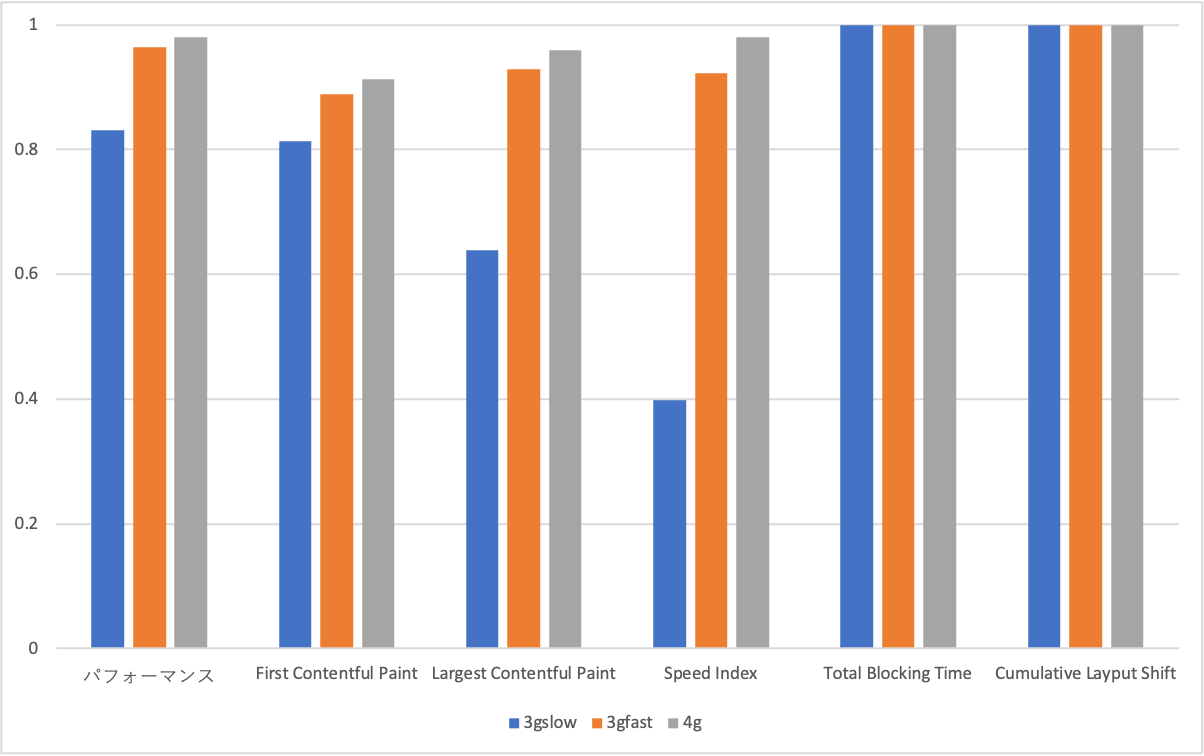
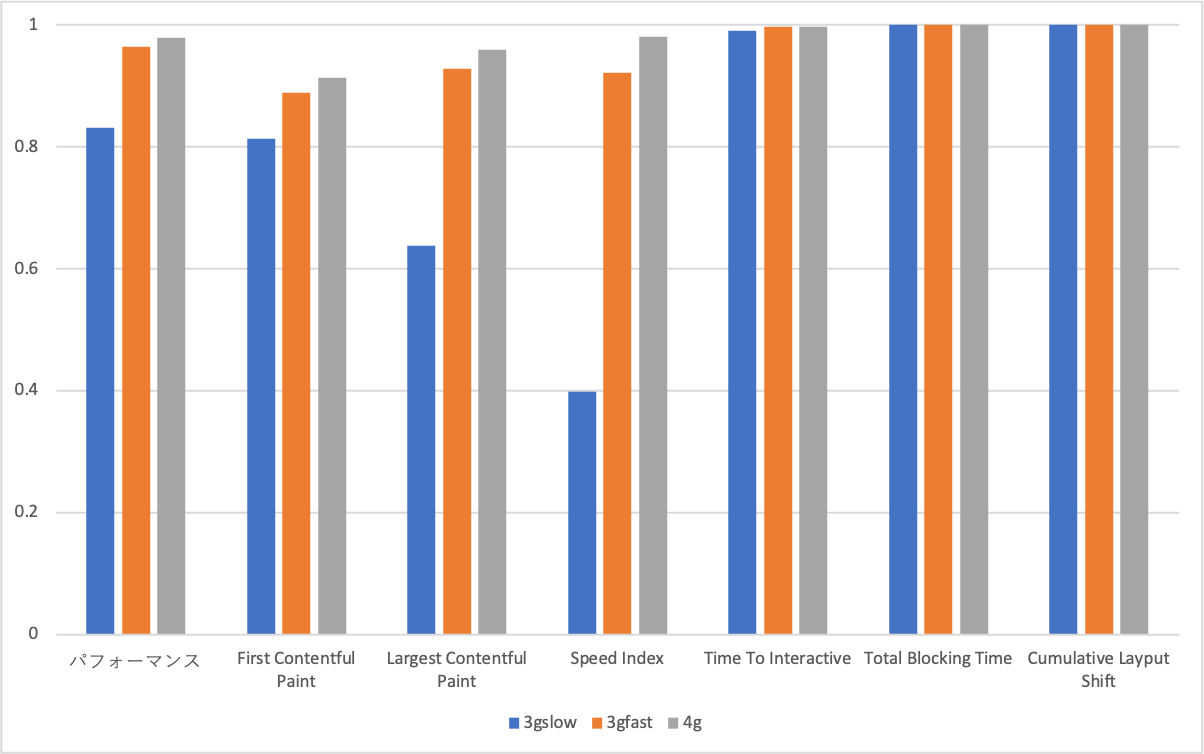
TTIを表に追加する

diff --git a/paper/documents/conclusion.tex b/paper/documents/conclusion.tex
@@ -8,9 +8,9 @@
 
 アプリの進化の歴史を踏まえると、アプリのインタラクティブ性は今後ますます高まると考えられる。前述したように、現在配信されている観光案内アプリの多くは受動的であり、アプリからユーザーへの積極的な情報発信が少ない。しかし、今後アプリのインタラクティブ化が進めば、ユーザーに適した観光名所の提案や、新しい観光名所の紹介がアプリのアクションをきっかけに行われるようになる可能性もある。このような機能がより一般的になれば、Push APIとNotifications APIを用いたプッシュ通知の価値が高まり、最終的にはPWAの有用性が向上するかもしれない。
 
-ユーザー間で観光名所の情報を共有する機能を持った観光案内アプリもある。このような機能を実装する場合はMedia Capture and Streams APIを始めとするメディアの制御に関するWeb APIを利用できる。このWeb APIを用いることでファイルやストリームを容易に作成できる。ファイルやストリームを操作するWeb APIは多くのWebブラウザーがサポートしているが、ファイルシステムにアクセスするためのWeb APIは権限が大きすぎるという理由で一部のWebブラウザーベンダーが反対している。そのため、ディレクトリを管理するような複雑な操作をWebアプリに実装することは実質的には不可能である。
+ユーザー間で観光名所の情報を共有する機能を持った観光案内アプリもある。このような機能を実装する場合はMedia Capture and Streams APIを始めとするメディアの制御に関するWeb APIを利用できる。このWeb APIを用いることでファイルやストリームを容易に作成できる。ファイルやストリームを操作するWeb APIは多くのWebブラウザーがサポートしているが、ファイルシステムにアクセスするためのWeb APIは権限管理が不十分であるという理由で一部のWebブラウザーベンダーが反対している。権限が大きいWeb APIの規制により、ユーザーのプライバシーが守られやすくなる一方で、ネイティブアプリとWebアプリの間のユーザビリティーの格差が広まる可能性がある。
 
-観光案内アプリにService Workerを追加するとコンテンツをキャッシュできるようになる。全てのネットワークレスポンスをキャッシュした場合は、2回目以降のページ読み込みではユーザーの端末内のストレージからそのコンテンツが取り出されるため、瞬時にページが表示され、最大のパフォーマンスを得られる。しかし、全てのネットワークレスポンスをキャッシュする方法を採用するとユーザーの端末内のストレージ容量を過剰に消費してしまう可能性がある。このような場合は特定の形式のファイルのみをキャッシュしたり、特定のオリジンのコンテンツのみをキャッシュしたりすることが推奨される。観光案内アプリで、画像をキャッシュした場合とSame-Originのネットワークレスポンスをキャッシュした場合を比べると、画像をキャッシュした場合はFCPの値が小さく、Same-Originのネットワークレスポンスをキャッシュした場合はSIの値が小さい。Same-OriginのネットワークレスポンスはHTML、CSS、JavaScript、JSONを中心に構成されるが、これらはいずれも画像に比べてファイルサイズが小さいため、Same-Originのネットワークレスポンスをキャッシュした場合はSIの値が小さくなりやすいと考えられる。一方で画像をキャッシュした場合は、ページの最初のコンテンツをレンダリングするために必要なHTMLをサーバーから取得する必要があるため、FCPが小さくなりやすいと考えられる。観光案内アプリでService Workerを使用することで、それぞれのアプリの特徴に合ったキャッシュ管理ができ、クライアントのストレージ容量の消費を節約しながらアプリのパフォーマンスを改善できる。
+観光案内アプリにService Workerを追加するとコンテンツをキャッシュできるようになる。全てのネットワークレスポンスをキャッシュした場合は、2回目以降のページ読み込みではユーザーの端末内のストレージからそのコンテンツが取り出されるため、瞬時にページが表示され、最大のパフォーマンスを得られる。しかし、全てのネットワークレスポンスをキャッシュする方法を採用するとユーザーの端末内のストレージ容量を過剰に消費してしまう可能性がある。このような場合は特定の形式のファイルのみをキャッシュしたり、特定のオリジンのコンテンツのみをキャッシュしたりすることが推奨される。観光案内アプリで、画像をキャッシュした場合とSame-Originのネットワークレスポンスをキャッシュした場合を比べると、画像をキャッシュした場合はFCPの値が小さく、Same-Originのネットワークレスポンスをキャッシュした場合はSIの値が小さい。Same-OriginのネットワークレスポンスはHTML、CSS、JavaScript、JSONを中心に構成されるが、これらはいずれも画像に比べてファイルサイズが小さいため、Same-Originのネットワークレスポンスをキャッシュした場合はSIの値が小さくなりやすいと考えられる。一方で画像をキャッシュした場合は、ページの最初のコンテンツをレンダリングするために必要なHTMLをサーバーから取得する必要があるため、FCPが小さくなりやすいと考えられる。観光案内アプリでService Workerを使用することで、それぞれのアプリの特徴に合ったキャッシュ管理ができ、クライアントのストレージ容量の消費を節約しながらアプリのパフォーマンスを改善できる。TTIについては、JavaScriptのイベントハンドラーの実行が悪影響を及ぼしていると考えられる。特に、Webアプリに観光地図を実装する場合は、サムネイル表示や詳細表示を実現するために、mouseoverイベントやclickイベントを、観光名所を表すノード単位で監視するため、イベントハンドラーの実行時間が長くなりやすい。
 
 PWAの導入後のパフォーマンスを計測する方法は改善の余地がある。例えば、ユーザーのインタラクションの遅延を計測することで、実際のユーザビリティーをより正確に評価できる。LighthouseはFirst Input Delay(FID)をInteraction to Next Paint(INP)に置き換えようとしている。FIDはユーザーが最初にページを操作してから、Webブラウザーが実際にイベントバンドラーの処理を開始するまでの時間を算出する。一方で、INPはユーザーがページで行う全てのインタラクションの遅延を計測し、最も長いインタラクションを算出する。INPはクリック、タップ、キーボードの押下のインタラクションを計測できるが、スクロールやズームのインタラクションは計測できない。これらのインタラクションは観光案内アプリに実装されることが多い機能の1つである観光地図で多用されるものであるため、それを考慮することでより正確なパフォーマンスを算出できる。
 

diff --git a/paper/documents/method.tex b/paper/documents/method.tex
@@ -5,8 +5,8 @@
 観光案内アプリはユーザーが受け取るコンテンツが多いという特徴があるため、パフォーマンスが低下しやすい。~\autoref{subsection:PWAの要素の性質}で示したPWAの構成要素のうち、Service Workerはパフォーマンスの低下を防ぐのに有用であるとされている。そこで、まずはService Workerを使用した際の観光案内アプリのパフォーマンスを評価する。アプリのパフォーマンスを評価するためには、事前に以下の作業が必要である。
 \begin{itemize}
     \item 評価対象となるアプリに求められる機能の調査
-    \item 評価対象となるアプリのビルド構成の策定、アプリの作成、アプリのデプロイ
-    \item Service Workerのキャッシュパターンの調査
+    \item 評価対象となるアプリのビルド構成の策定、アプリの作成
+    \item Service Workerのキャッシュ戦略の策定
     \item アプリのパフォーマンスを計測する方法の策定
 \end{itemize}
 \subsubsection{観光案内アプリに求められる機能の調査}
@@ -66,7 +66,7 @@
 
 \subsubsection{Service Workerのキャッシュ戦略}
 \label{Service Workerのキャッシュパターン}
-Service Workerのキャッシュパターンはキャッシュ戦略と呼ばれ、Service Workerを効果的に使用するために必要である。どのコンテンツをキャッシュするべきかはアプリの内容によって異なるため、キャッシュ戦略は無数にあるが、参考までにいくつか例を示す。
+Service Workerのキャッシュ戦略はfetchイベントとCacheインターフェイスからなり、適切なキャッシュ戦略を採用することでPWAのパフォーマンスを向上させられる。どのネットワークレスポンスをキャッシュするべきかはアプリの内容によって異なるため、キャッシュ戦略は無数にあるが、参考までにいくつか例を示す。
 
 まずは、Service Workerのインストール時に全てのアセットをキャッシュする戦略がある。この戦略ではService Workerはアセットのキャッシュのみを返すため、HTMLなどのネットワークリクエストはService Workerを経由せず、キャッシュされない。
 
